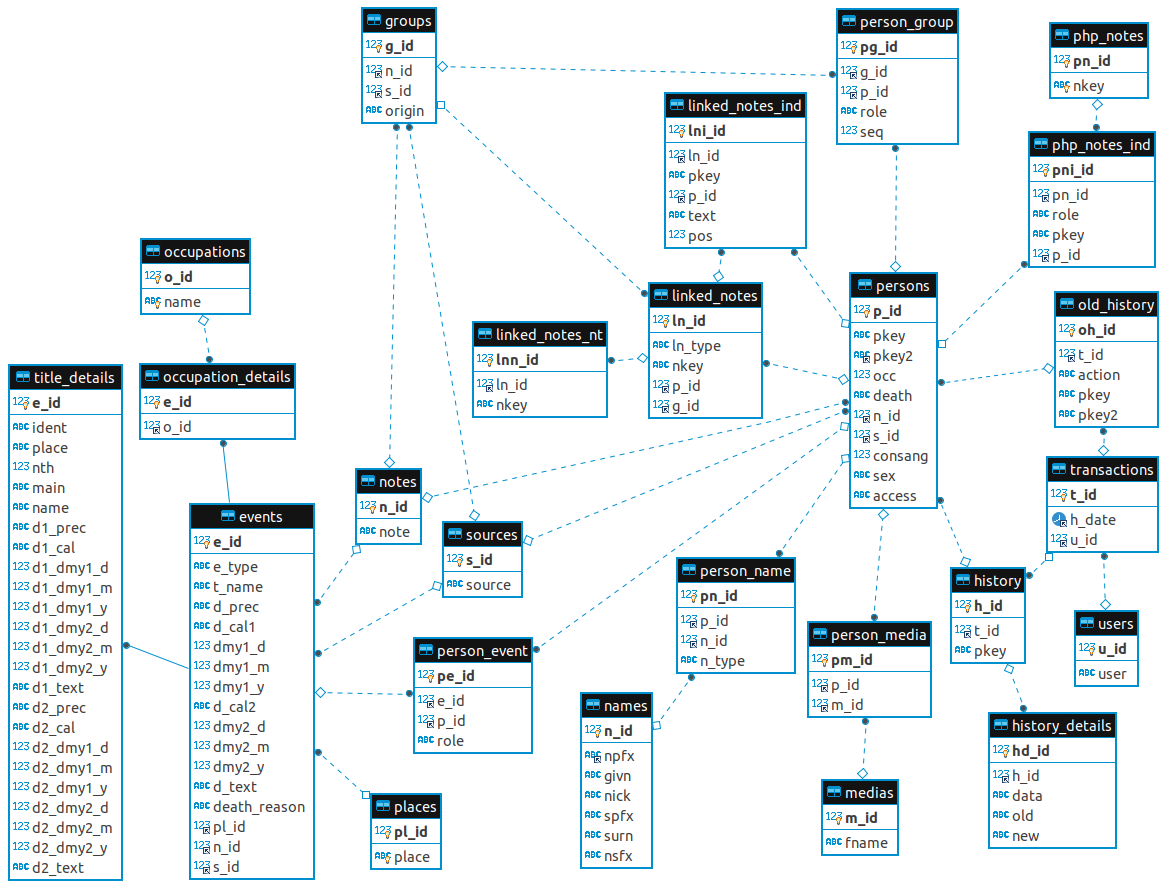
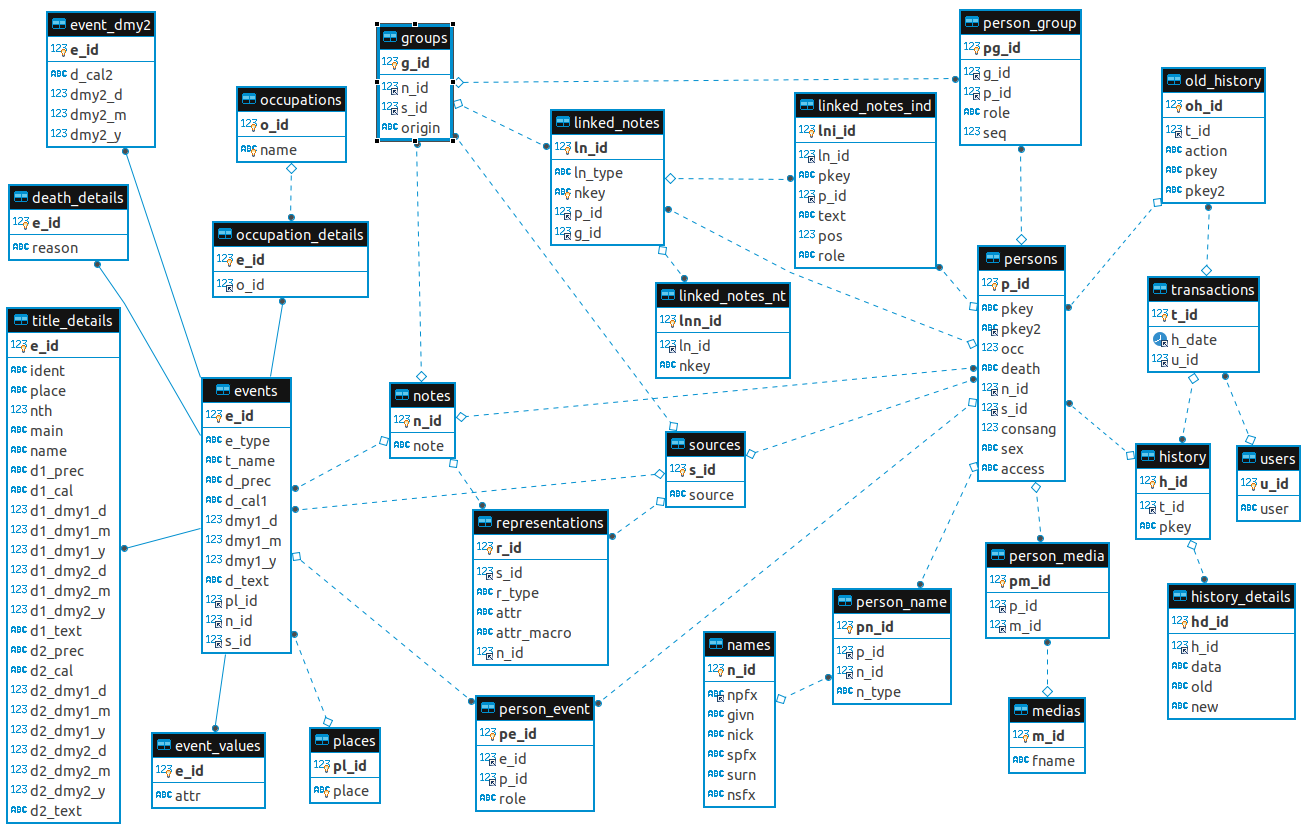
Mise à jour du modèle et de sa description

diff --git a/bin/contrib/mysql/README.MD b/bin/contrib/mysql/README.MD
@@ -10,12 +10,12 @@ sudo mysql -u root -p
 ```
 Renseigner le mot de passe puis valider avec `Entrée`
 Puis, dans la console `MariaDB>` :
-`
+```
 create database geneweb character set UTF8;
 create user 'gw'@'localhost' identified by 'gw_pw';
 grant all privileges on geneweb.* to 'gw'@'localhost';
 exit
-`
+```
 
 ### Lancer la migration
 
@@ -36,16 +36,18 @@ Lancer le script `./run2.sh` qui va enchaîner les étapes suivantes :
 * Exécution des scripts de transformations (actuellement changeHistory.sql)
 * Chargement de l'ancien système d'histique (via load_old_history.sql)
 
-Je conserve un ancêtre des notes liées (gérées via PHP) que je charge avec `./load_php_notes.sh`.
+J'ai même un script `./all.sh` mais ce script intègre beaucoup de traitements spécifiques à ma base de données.
 
-Pour info, j'ai préparé quelques scripts SQL que vous pouvez lancer en prenant soin de choisir un identifiant de personne (<p_id>) ou de source (<s_id>) :
+Pour info, j'ai préparé quelques scripts SQL que vous pouvez lancer en remplaçant l'identifiant de l'objet (e.g.: <p_id> pour identifiant d'une personne) :
 
-`
+```
 ./mysql.sh -t
 MariaDB> set @id = <p_id> ; \. p_id2person.sql
 MariaDB> set @id = <p_id> ; \. p_id2asc.sql
 MariaDB> set @id = <s_id> ; \. s_id2pkey2.sql
-`
+MariaDB> set @id = <n_id> ; \. n_id2pkey2.sql
+MariaDB> set @id = <e_id> ; \. e_id2pkey2.sql
+```
 
 ### État du modèle
 ![Modèle](modele.png)
@@ -58,18 +60,20 @@ Les principales tables sont :
 * events : une ligne pour chaque événement qu'ils soient de niveau personne ou de niveau famille. Certains événements nécessitent un complément :
   * occupation_details : permet de préciser la profession
   * title_details : la gestion des titres est anormalement complexe dans GeneWeb ! Il conviendrait de remonter l'information place au niveau events pour la standardiser.
-  * Le champ death_reason est spécifique à un décès et devrait donc être stocké à part également (death_details ?)
+  * death_details : pour gérer la raison du décès qui est spécifique à ce type d'événement (pas de ligne pour une raison inconnue pour diminuer le volume de la table). Douple emploi avec event_values ?
+  * events_dmy2 : lorsque la précision requière une deuxième date, elle est stockée ici (cette découpe devrait permettre de réduire le volume de données)
+  * events_values : certains événements sont porteurs de données variées. On stocke ça au format JSON
 * occupations : une ligne pour chaque profession
 * places : une ligne pour chaque lieu. Il faut prévoir de hiérarchiser les lieux, d'intégrer des données de géolocalisation, de traduire certains lieux, etc.
 * sources : une ligne par source. Il faut prévoir de hiérarchiser les sources afin de pouvoir les regrouper par registre, série d'archive, livre et autres.
 * notes : une ligne par note. Il conviendrait que je découpe certaines notes et que je transforme certaines en événements. Voir par exemple cette [fiche](https://lledieu.org/?p=robert&n=vainet&oc=1) pour comprendre l'intérêt.
+* representations : notion GenTech associée aux sources. L'usage intensif de macro dans GeneWeb me permet de retrouver cette notion dans ma base GeneWeb.
 * medias : une ligne par medias. Actuellement, il s'agit des portraits. Il faut que je complète avec les liens m=IM qui peuvent traîner dans les notes pour des signatures comme sur cette [fiche](https://lledieu.org/?p=stanislas&n=gamot&oc=5).
 * users : une ligne pour chaque magicien
 * linked_notes : une ligne pour chaque note liée. Le lien de cette table avec persons et group n'est pas satisfaisant. En réalité, la liaison devrait passer via notes ou sources...
   * linked_notes_nt : lien vers une autre note liée (via la clé nkey)
-  * linked_notes_ind : liens vers une personne (via la clé pkey)
-* php_notes : Je gère sous avec PHP un ancêtre des notes liées que je n'ai toujours pas migré dans GeneWeb (car je ne suis pas satisfait du stockage et de l'obligation de référencement)
-  * php_notes_ind : liens vers une personne. Le champ role permet de distinguer un rôle principal ou témoin.
+  * linked_notes_ind : liens vers une personne (via la clé pkey). Note de role ajouté pour PgPhp avec lequel j'arrive à distinguer les rôles principal et témoin.
+  * N.B.: j'ai ajouter le type PgPhp pour intégrer l'ancêtre des notes liées que je gère toujours sous PHP. Je n'ai toujours pas migré dans GeneWeb (car je ne suis pas satisfait du stockage et de l'obligation de référencement)
 * transactions : une ligne par transaction d'historique. La notion de transaction permet de recouper l'ancien historique avec le nouveau en prenant comme clé h_date et u_id que je suppose unique.
   * old_history : il s'agit des données issues du fichier history de la base dans lequel j'ai des données depuis 2011
   * history : il s'agit des données issues du répertoire history_d de la base dans lerquel j'ai des données depuis que j'utilise la version 7 de GeneWeb (vers mai 2019) /!\ La stabilité des données n'est pas garantie dans GeneWeb : il faudrait remplacer iper par fn.oc.sn pour améliorer ça !
